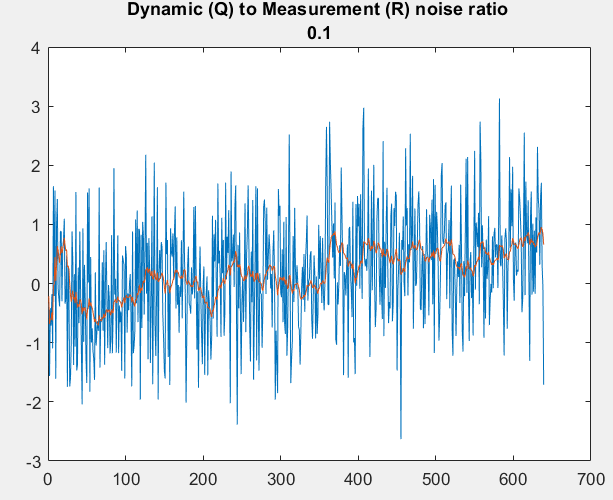
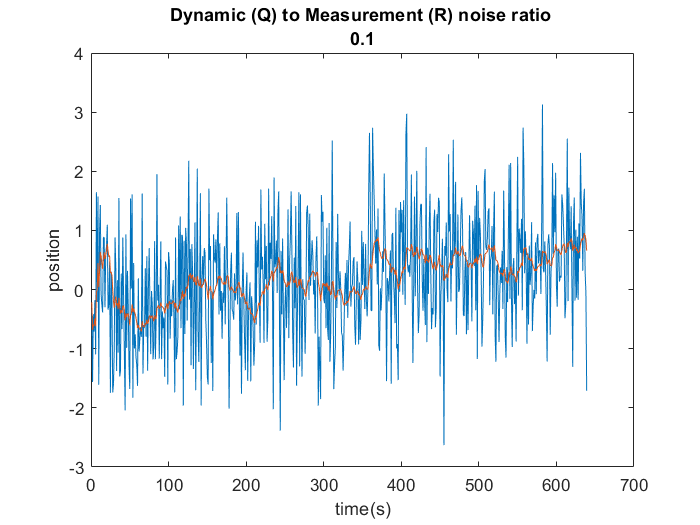
output images updated

Changed region(s): [[0.031, 0.0, 0.9918, 0.99], [0.031, 0.09, 0.062, 0.12]]

diff --git a/3_Kalman_Filter/2d_KF.m b/3_Kalman_Filter/2d_KF.m
@@ -1,0 +1,94 @@
+load('data.mat')
+T = 0.01; %sample time of 0.01 s
+psi = [1 0 T 0; 
+       0 1 0 T; 
+       0 0 1 0; 
+       0 0 0 1];       %state transition matrix
+init = 30;      %number of variables that will be used to calculate initial value of system
+rate_x = zeros(init,1); rate_y = zeros(init,1); %matrices to store initial rate of change in x & y
+init_x = zeros(init,1); init_y = zeros(init,1); %matrices to store initial values of x and y
+for i=1:init
+   rate_x(i) = (data_2d_raw(i+1,1) - data_2d_raw(i,1))/T;
+   rate_y(i) = (data_2d_raw(i+1,2) - data_2d_raw(i,2))/T;
+   init_x(i) = data_2d_raw(i,1); init_y(i) = data_2d_raw(i,2);
+end
+
+%X_previous =  [mean(init_x); mean(rate_x); mean(init_y); mean(rate_y)]; %state matrix for previous instance
+cov_x_x_dot = cov(init_x, rate_x);
+cov_x_y = cov(init_x, init_y);
+cov_x_y_dot = cov(init_x, rate_y);
+cov_x_dot_y_dot = cov(rate_x, rate_y);
+cov_x_dot_y = cov(rate_x, init_y);
+cov_y_y_dot = cov(init_x, rate_y);
+
+X_previous =  [init_x(1); 
+               init_y(1); 
+               0; 
+               0]; %state matrix for previous instance
+S_previous = [ var(init_x) 0 0 0;
+               0 var(init_y) 0 0; 
+               0 0 var(rate_x) 0; 
+               0 0 0 var(rate_y);];
+
+dyn_var_x = 0.1;
+dyn_var_y = 0.1;
+meas_var_x = 1;
+meas_var_y = 1;
+Q = [0 0 0 0; 
+     0 0 0 0; 
+     0 0 dyn_var_x 0; 
+     0 0 0 dyn_var_y];
+R = [meas_var_x     0; 
+    0               meas_var_y];
+M = [1 0 0 0; 
+     0 1 0 0];
+I = [1 0 0 0; 
+     0 1 0 0; 
+     0 0 1 0; 
+     0 0 0 1];
+
+data_2d_filtered = zeros(length(data_2d_raw),2);
+for i=1:length(data_2d_raw)
+    X_predicted = psi * X_previous;       %predicting current state value based on transition matrix
+    S_predicted = psi * S_previous * psi' + Q;    %updating state covariance matrix
+    Y = [data_2d_raw(i,1); data_2d_raw(i,2)];              %obtaining current measurement
+    K = S_predicted*M'/(M*S_predicted*M' + R);   %Kalman gain calculation
+    X_updated = X_predicted + K*(Y - M*X_predicted);    %updated state value
+    S_updated = (I - K*M) * S_predicted;        %updated state covarinace matrix
+    X_previous = X_updated;
+    S_previous = S_updated;
+    data_2d_filtered(i,1) = X_updated(1,1);
+    data_2d_filtered(i,2) = X_updated(2,1);
+end
+
+figure(1)
+plot(data_2d_raw(:,1),data_2d_raw(:,2))
+hold on
+plot(data_2d_filtered(:,1),data_2d_filtered(:,2))
+title("Actual vs Filtered movement 2d")
+xlabel("position x(m)")
+ylabel("position y(m)")
+
+figure(2)
+plot(data_2d_raw(:,1))
+hold on
+plot(data_2d_filtered(:,1))
+title("Actual vs Filtered movement x direction")
+xlabel("Time (s)")
+ylabel("position x(m)")
+
+figure(3)
+plot(data_2d_raw(:,2))
+hold on
+plot(data_2d_filtered(:,2))
+title("Actual vs Filtered movement y direction")
+xlabel("Time (s)")
+ylabel("position y(m)")
+
+%S_previous = cov(init_x, rate_x, init_y, rate_y);
+%                [ std(init_x) cov(init_x, rate_x) cov(init_x, init_y) cov(init_x, rate_y) ; 
+%                cov(rate_x, init_x) std(rate_x) cov(rate_x, init_y) cov(rate_x, rate_y) ;
+%                cov(init_y, init_x) cov(init_y, rate_x) std(init_y) cov(init_y, rate_y) ;
+%                cov(rate_y, init_x) cov(rate_y, rate_x) cov(rate_y, init_y) std(rate_y) ];  %state covariance matrix at previous instance S_t-1,t-1
+%            
+

diff --git a/3_Kalman_Filter/1d_KF.m b/3_Kalman_Filter/1d_KF.m
@@ -41,3 +41,5 @@ plot(data_1d_raw)
 hold on
 plot(data_1d_filtered)
 title(["Dynamic (Q) to Measurement (R) noise ratio ",num2str(dyn_var/meas_var)])
+xlabel("time(s)")
+ylabel("position")
